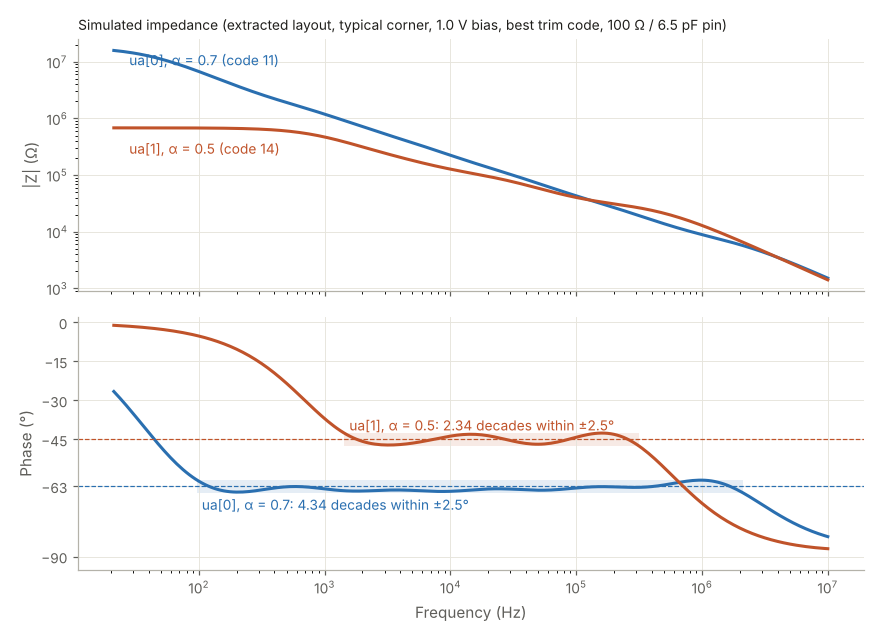
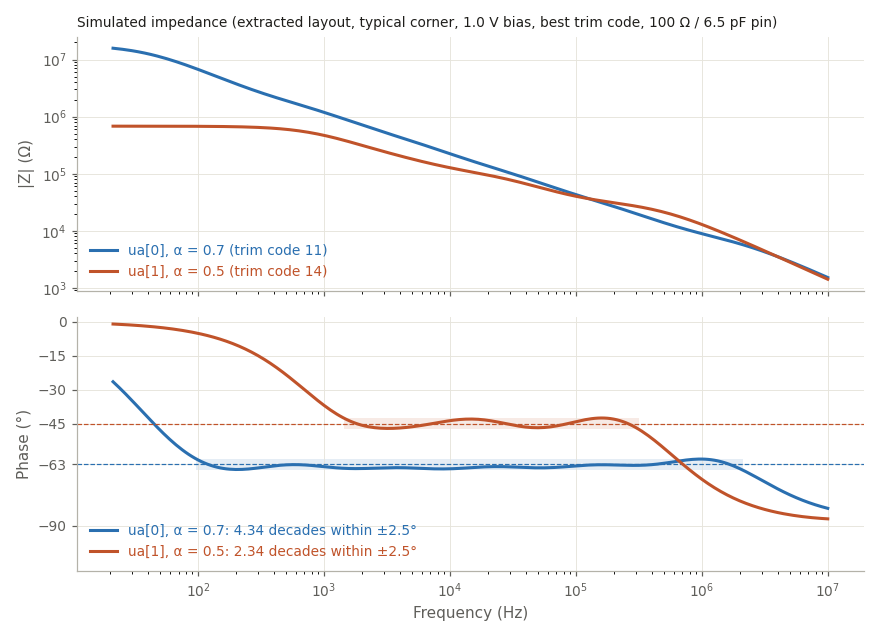
Datasheet: network schematic (docs/network.png), element tables keyed to R1/C1.., Bode labels moved to legends, first sentence wording
Claude-Session: https://claude.ai/code/session_01T6EDYzizvkoz6DZM2BKKYK

diff --git a/docs/src/network_fig.py b/docs/src/network_fig.py
@@ -1,0 +1,28 @@
+"""Datasheet figure: generic network schematic (one per pin). Run from the repo root: writes docs/network.png."""
+import schemdraw, schemdraw.elements as elm
+schemdraw.config(fontsize=17, font='DejaVu Sans', margin=0.6)
+H = 6.0
+X = dict(Rp=2.0, b1=4.0, b2=6.0, dots=7.5, bN=9.0, t0=11.6, t1=13.8, tdots=15.4, t4=17.0)
+with schemdraw.Drawing(file='docs/network.png', dpi=110, show=False) as d:
+    d += elm.Dot(open=True).at((0, 0)).label('ua pin', loc='left')
+    d += elm.Line().at((0, 0)).to((X['t4'], 0))
+    d += elm.Line().at((X['Rp'], -H)).to((X['t4'], -H))
+    d += elm.Ground().at((X['Rp'], -H))
+    d += elm.Dot().at((X['Rp'], 0))
+    d += elm.Resistor().at((X['Rp'], 0)).down().length(H).label('Rp', loc='bottom')
+    for key, n in (('b1', '1'), ('b2', '2'), ('bN', 'N')):
+        x = X[key]
+        d += elm.Dot().at((x, 0))
+        d += elm.Resistor().at((x, 0)).down().length(H / 2).label(f'R{n}', loc='bottom')
+        d += elm.Capacitor().down().length(H / 2).label(f'C{n}', loc='bottom')
+        d += elm.Dot().at((x, -H))
+    d += elm.Label().at((X['dots'], -H / 2)).label('· · ·', fontsize=20)
+    for key, k in (('t0', 0), ('t1', 1), ('t4', 4)):
+        x = X[key]
+        if k < 4: d += elm.Dot().at((x, 0))
+        d += elm.Capacitor().at((x, 0)).down().length(H / 2).label(f'{0.3 * 2 ** k:.1f} pF', loc='bottom')
+        d += elm.Switch().down().length(H / 2).label(f'bit {k}', loc='bottom')
+        if k < 4: d += elm.Dot().at((x, -H))
+    d += elm.Label().at((X['tdots'], -H / 2)).label('· · ·', fontsize=20)
+    d += elm.Label().at(((X['b1'] + X['bN']) / 2, 1.1)).label('RC branches, k = 1 … N', fontsize=16)
+    d += elm.Label().at(((X['t0'] + X['t4']) / 2, 1.1)).label('5-bit trim bank', fontsize=16)

diff --git a/docs/info.md b/docs/info.md
@@ -9,7 +9,7 @@ You can also include images in this folder and reference them in the markdown. E
 
 ## How it works
 
-This project contains two passive **fractional-order capacitors** (constant-phase elements, CPEs). An ideal CPE has
+This project contains two passive approximations of **fractional-order capacitors** (constant-phase elements, CPEs). An ideal CPE has
 impedance Z = 1 / ((jω)^α · Cα): its phase stays at −90·α degrees at every frequency, between a resistor (α = 0)
 and a capacitor (α = 1).
 
@@ -55,27 +55,34 @@ Cα is in nF·s^(α−1), that is nF·s^−0.3 for α = 0.7 and nF·s^−0.5 for
   units follow the fitted α. Forcing α to exactly 0.7 raises Cα by about 16 %.
 - **Wiring resistance:** results with and without it agree to 0.03 decades.
 
-**Element values** (as laid out; MOS capacitor value at 1.0 V bias, about 0.76 pF per 10 × 10 µm unit). Each branch
-is a resistor in series with a capacitor, from the pin to ground. Rp runs from the pin to ground on its own.
+**Circuit.** Each pin connects to its own network: a parallel resistor Rp, and N branches of a resistor Rk in series
+with a capacitor Ck, all from the pin to ground. The trim bank is in parallel with them. N = 5 for α = 0.7 (`ua[0]`)
+and N = 3 for α = 0.5 (`ua[1]`). Trim bit k is set by `ui_in[k]` for `ua[0]` and by `uio_in[k]` for `ua[1]`; a set
+bit closes that switch and adds 0.3 pF × 2^k.
 
-| `ua[0]`, α = 0.7 | R | C (MOS units + MIM) |
+![Network schematic (one per pin)](network.png)
+
+**Element values** (as laid out). Each Ck is a number of 10 × 10 µm MOS capacitor units (about 0.76 pF each at 1.0 V
+bias) plus a MIM capacitor in parallel.
+
+| `ua[0]`, α = 0.7 | Rk | Ck (MOS units + MIM) |
 |---|---|---|
-| Branch 1 | 3.94 MΩ | 100.2 pF (108 + 18.2 pF) |
-| Branch 2 | 1.25 MΩ | 42.4 pF (46 + 7.5 pF) |
-| Branch 3 | 331 kΩ | 26.9 pF (29 + 4.9 pF) |
-| Branch 4 | 85.8 kΩ | 16.5 pF (18 + 2.9 pF) |
-| Branch 5 | 15.5 kΩ | 12.3 pF (13 + 2.4 pF) |
+| R1, C1 | 3.94 MΩ | 100.2 pF (108 units + 18.2 pF MIM) |
+| R2, C2 | 1.25 MΩ | 42.4 pF (46 units + 7.5 pF MIM) |
+| R3, C3 | 331 kΩ | 26.9 pF (29 units + 4.9 pF MIM) |
+| R4, C4 | 85.8 kΩ | 16.5 pF (18 units + 2.9 pF MIM) |
+| R5, C5 | 15.5 kΩ | 12.3 pF (13 units + 2.4 pF MIM) |
 | Rp | 18.0 MΩ | — |
 
-| `ua[1]`, α = 0.5 | R | C (MOS units + MIM) |
+| `ua[1]`, α = 0.5 | Rk | Ck (MOS units + MIM) |
 |---|---|---|
-| Branch 1 | 591 kΩ | 90.5 pF (97 + 16.9 pF) |
-| Branch 2 | 222 kΩ | 76.8 pF (83 + 13.8 pF) |
-| Branch 3 | 51.0 kΩ | 31.9 pF (34 + 6.1 pF) |
+| R1, C1 | 591 kΩ | 90.5 pF (97 units + 16.9 pF MIM) |
+| R2, C2 | 222 kΩ | 76.8 pF (83 units + 13.8 pF MIM) |
+| R3, C3 | 51.0 kΩ | 31.9 pF (34 units + 6.1 pF MIM) |
 | Rp | 682 kΩ | — |
 
-- **Trim bank:** binary-weighted MIM capacitors from the pin, each switched to ground by an NMOS transistor, with
-  the external pin capacitance (about 4–9 pF) completing the top-end shunt capacitance.
+- **Trim bank:** binary-weighted MIM capacitors (drawn 0.3, 0.6, 1.2, 2.4, 4.8 pF), each switched to ground by an
+  NMOS transistor. The external pin capacitance (about 4–9 pF) completes the top-end shunt capacitance.
 - **Resistors:** xhigh-poly, 0.35 µm wide, R ≈ 5.71 kΩ/µm × L + 0.62 kΩ per segment.
 - **Size:** 2 × 2 tiles, 334.9 × 225.8 µm. The α = 0.5 block is on the left, the α = 0.7 block on the right, and the
   resistor array and trim switches are in the centre.
